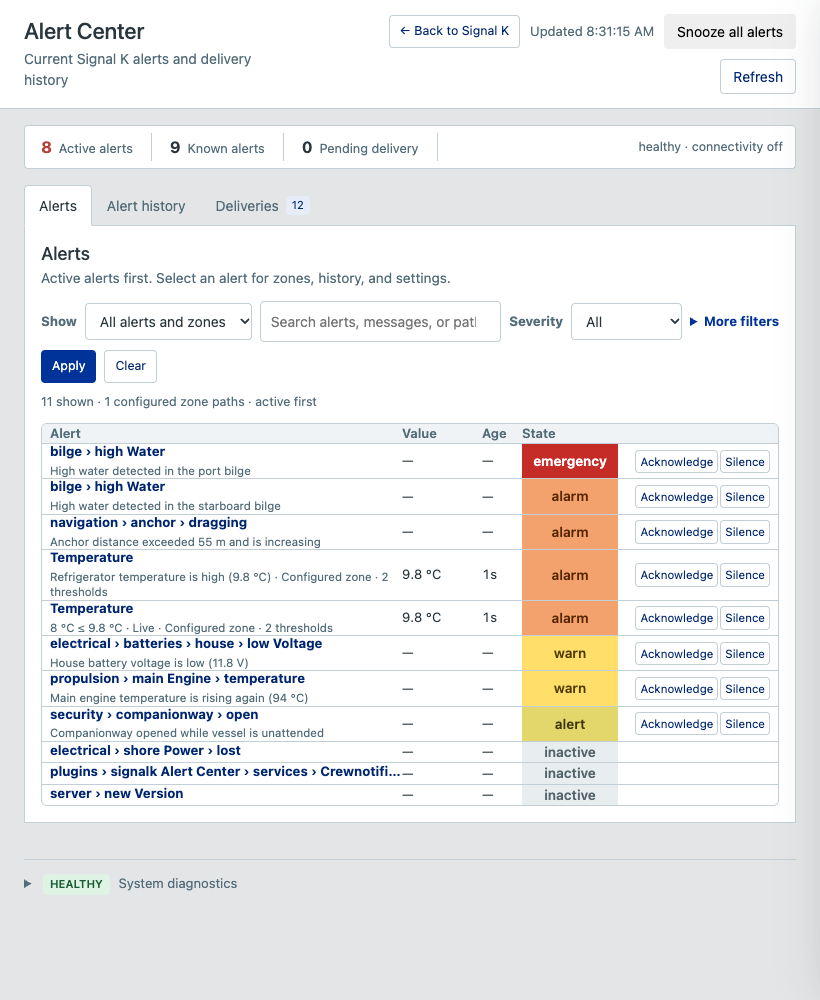
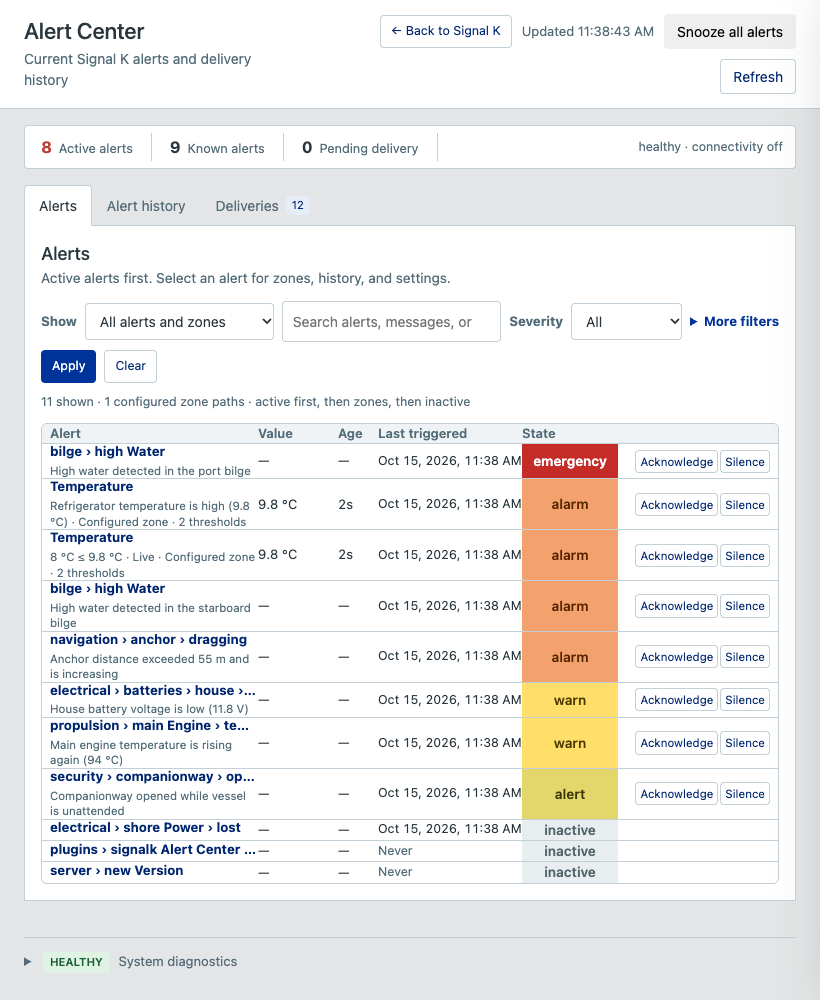
chore(release): prepare 0.4.0

diff --git a/CHANGELOG.md b/CHANGELOG.md
@@ -5,14 +5,33 @@ Versioning while it remains pre-1.0.
 
 ## [Unreleased]
 
-- Added the persistent Signal K control `digital.alertCenter.quietHours.enabled` to temporarily bypass all saved quiet-hours schedules. The dashboard clearly marks the override and each affected notifier; setting the path back to `true` restores the unchanged schedules.
-
 Future changes intended for the next release belong here.
+
+## [0.4.0] - 2026-10-15
 
 ### Alert overview
 
 - Restore the **Last triggered** column so each alert definition shows when its
   most recent occurrence started, or **Never** when it has not fired.
+
+### Quiet hours
+
+- Add the persistent Signal K PUT control
+  `digital.alertCenter.quietHours.enabled`. Set it to `false` to bypass every
+  saved per-service quiet-hours schedule and to `true` to restore them without
+  changing their configuration.
+- Clearly mark a disabled quiet-hours override in the dashboard banner,
+  diagnostics, and affected notification-service cards.
+
+### Upgrading
+
+- No configuration or database migration is required. Existing installations
+  continue with quiet hours enabled by default, and the override state survives
+  plugin and server restarts.
+- Version 0.3.0 can read the same database if a rollback is necessary, but it
+  does not understand the global override. After rollback, configured
+  per-service quiet-hours schedules apply normally even if the 0.4.0 override
+  had been disabled.
 
 ## [0.3.0] - 2026-10-12
 

diff --git a/README.md b/README.md
@@ -25,7 +25,7 @@ alert list and history without configuring any notification service.
 [Snooze](#snooze-all-alerts) ·
 [Quiet hours](#quiet-hours-per-notification-service)
 
-![Alert Center showing active alerts and defined zones](./docs/screenshots/alert-center-overview.png)
+![Alert Center showing active alerts, defined zones, and when each alert last triggered](./docs/screenshots/alert-center-overview.png)
 
 ## Why use it?
 
@@ -36,9 +36,10 @@ current value changes:
 - **See what needs attention now.** Active alerts appear first in one compact
   list, followed by configured zones with no active alert (shown as Normal),
   then inactive discovered alerts. All definitions are loaded without a
-  history-based “Load more” button. Choose **Zones and active alerts** to hide
-  inactive discovered alerts. Normal means no active alert has been reported;
-  it does not certify sensor availability or freshness.
+  history-based “Load more” button, and **Last triggered** shows the start of
+  each alert's most recent occurrence. Choose **Zones and active alerts** to
+  hide inactive discovered alerts. Normal means no active alert has been
+  reported; it does not certify sensor availability or freshness.
 - **Keep the full story.** Raises, meaningful updates, clears,
   acknowledgements, silences, and delivery results remain available after a
   restart.
